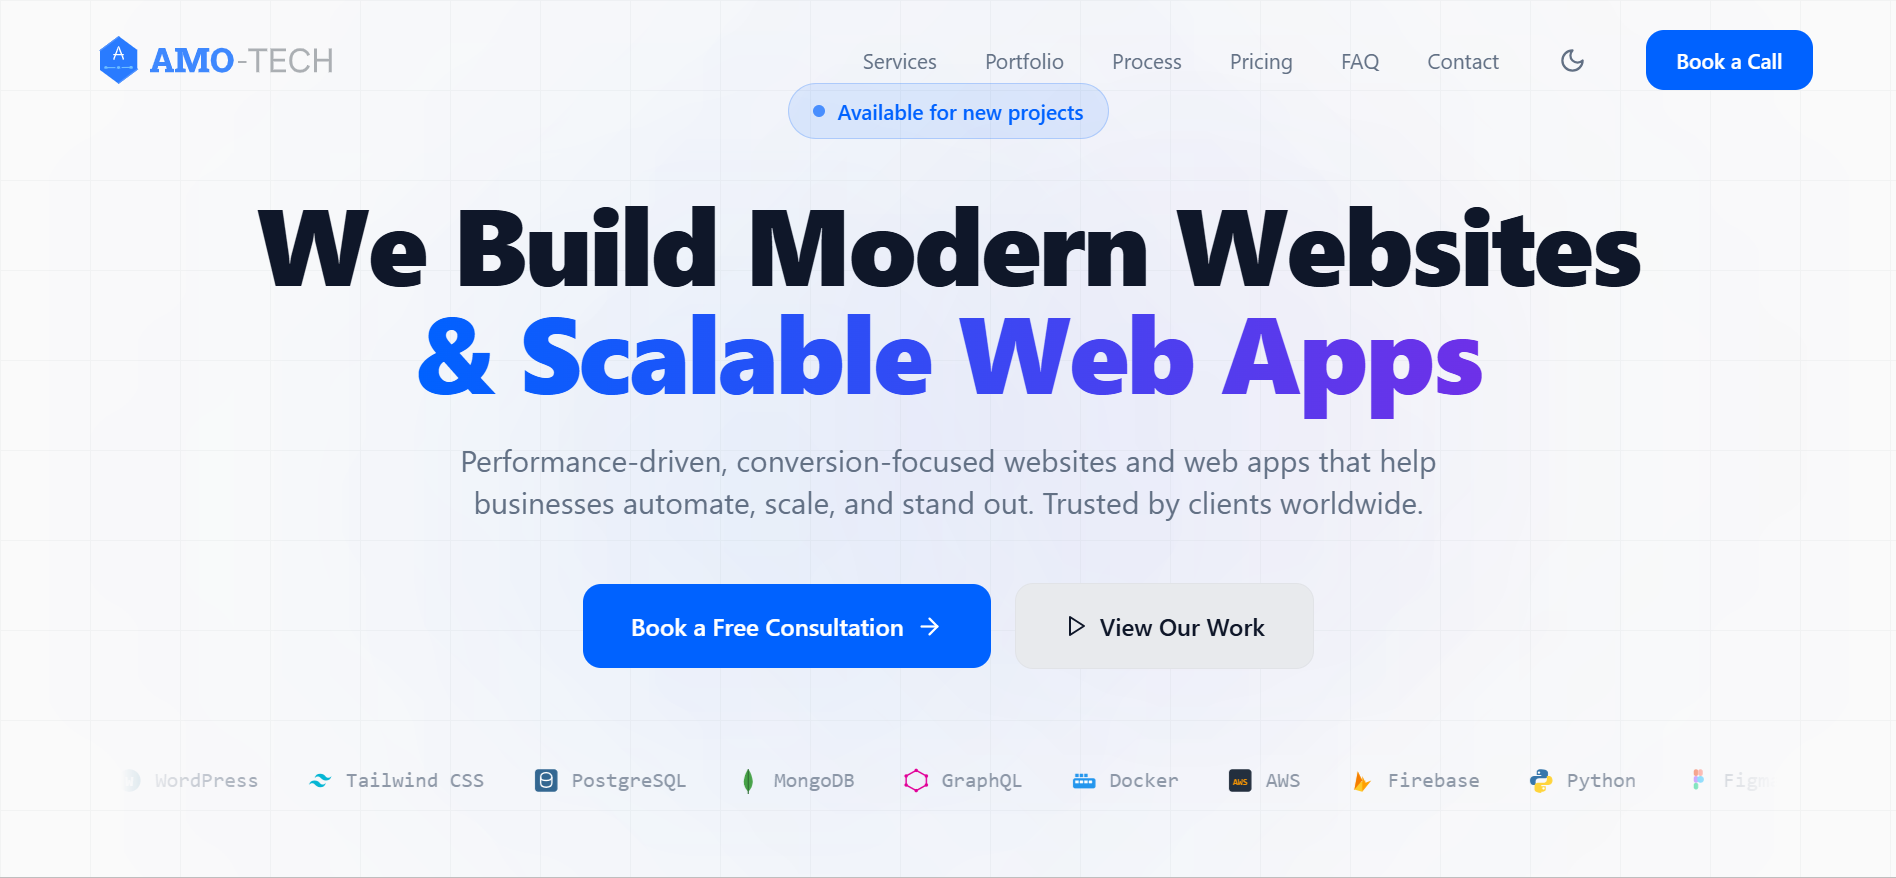
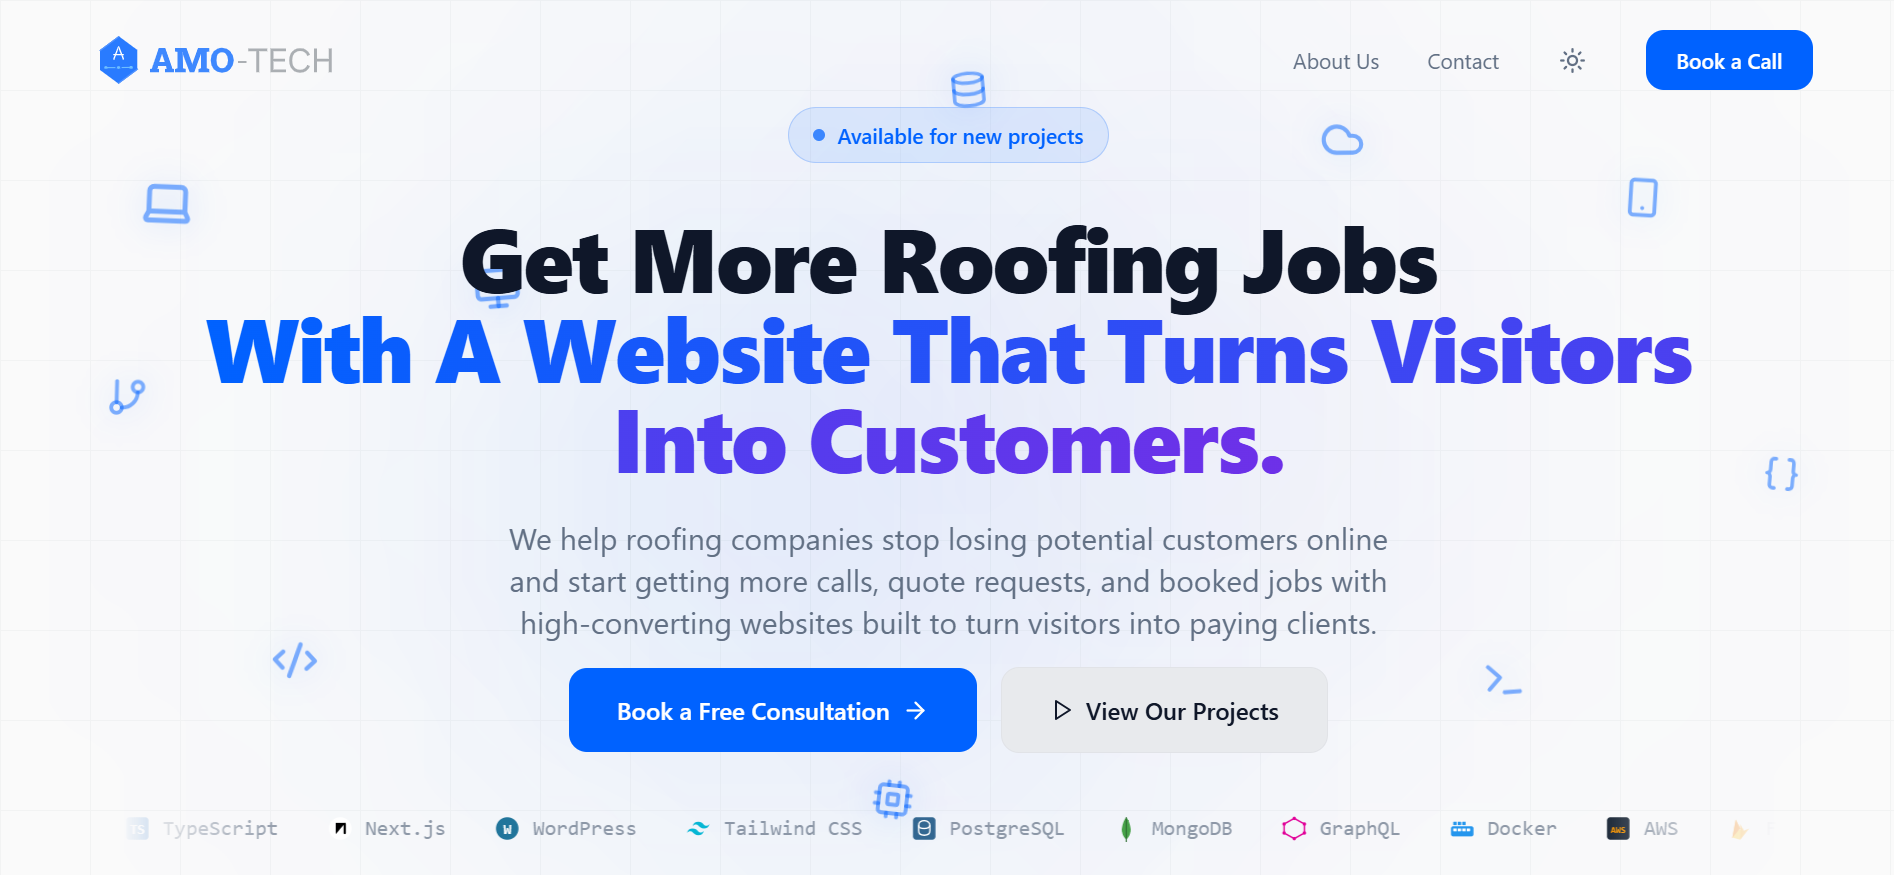
Nineteenth commit - Edited url image

diff --git a/index.html b/index.html
@@ -3,20 +3,21 @@
   <head>
     <meta charset="UTF-8" />
     <meta name="viewport" content="width=device-width, initial-scale=1.0" />
-    <link rel="icon" type="image/svg+xml" href="https://amo-tech.vercel.app/amotechminilogo.svg" />
+    <link rel="icon" type="image/svg+xml" href="https://amo-tech.org/amotechminilogo.svg" />
+    <link rel="icon" type="image/png" href="https://amo-tech.org/amotechminilogo.png" />
     <title>Amo-Tech</title>
 
     
     <!-- Open Graph -->
     <meta property="og:title" content="Amo-Tech" />
-    <meta property="og:image" content="https://amo-tech.vercel.app/preview.png" />
-    <meta property="og:url" content="https://amo-tech.vercel.app/" />
+    <meta property="og:image" content="https://amo-tech.org/preview.png" />
+    <meta property="og:url" content="https://amo-tech.org/" />
     <meta property="og:type" content="website" />
 
     <!-- Twitter -->
     <meta name="twitter:card" content="summary_large_image" />
     <meta name="twitter:title" content="Amo-Tech" />
-    <meta name="twitter:image" content="https://amo-tech.vercel.app/preview.png" />
+    <meta name="twitter:image" content="https://amo-tech.org/preview.png" />
   </head>
   <body>
     <div id="root"></div>